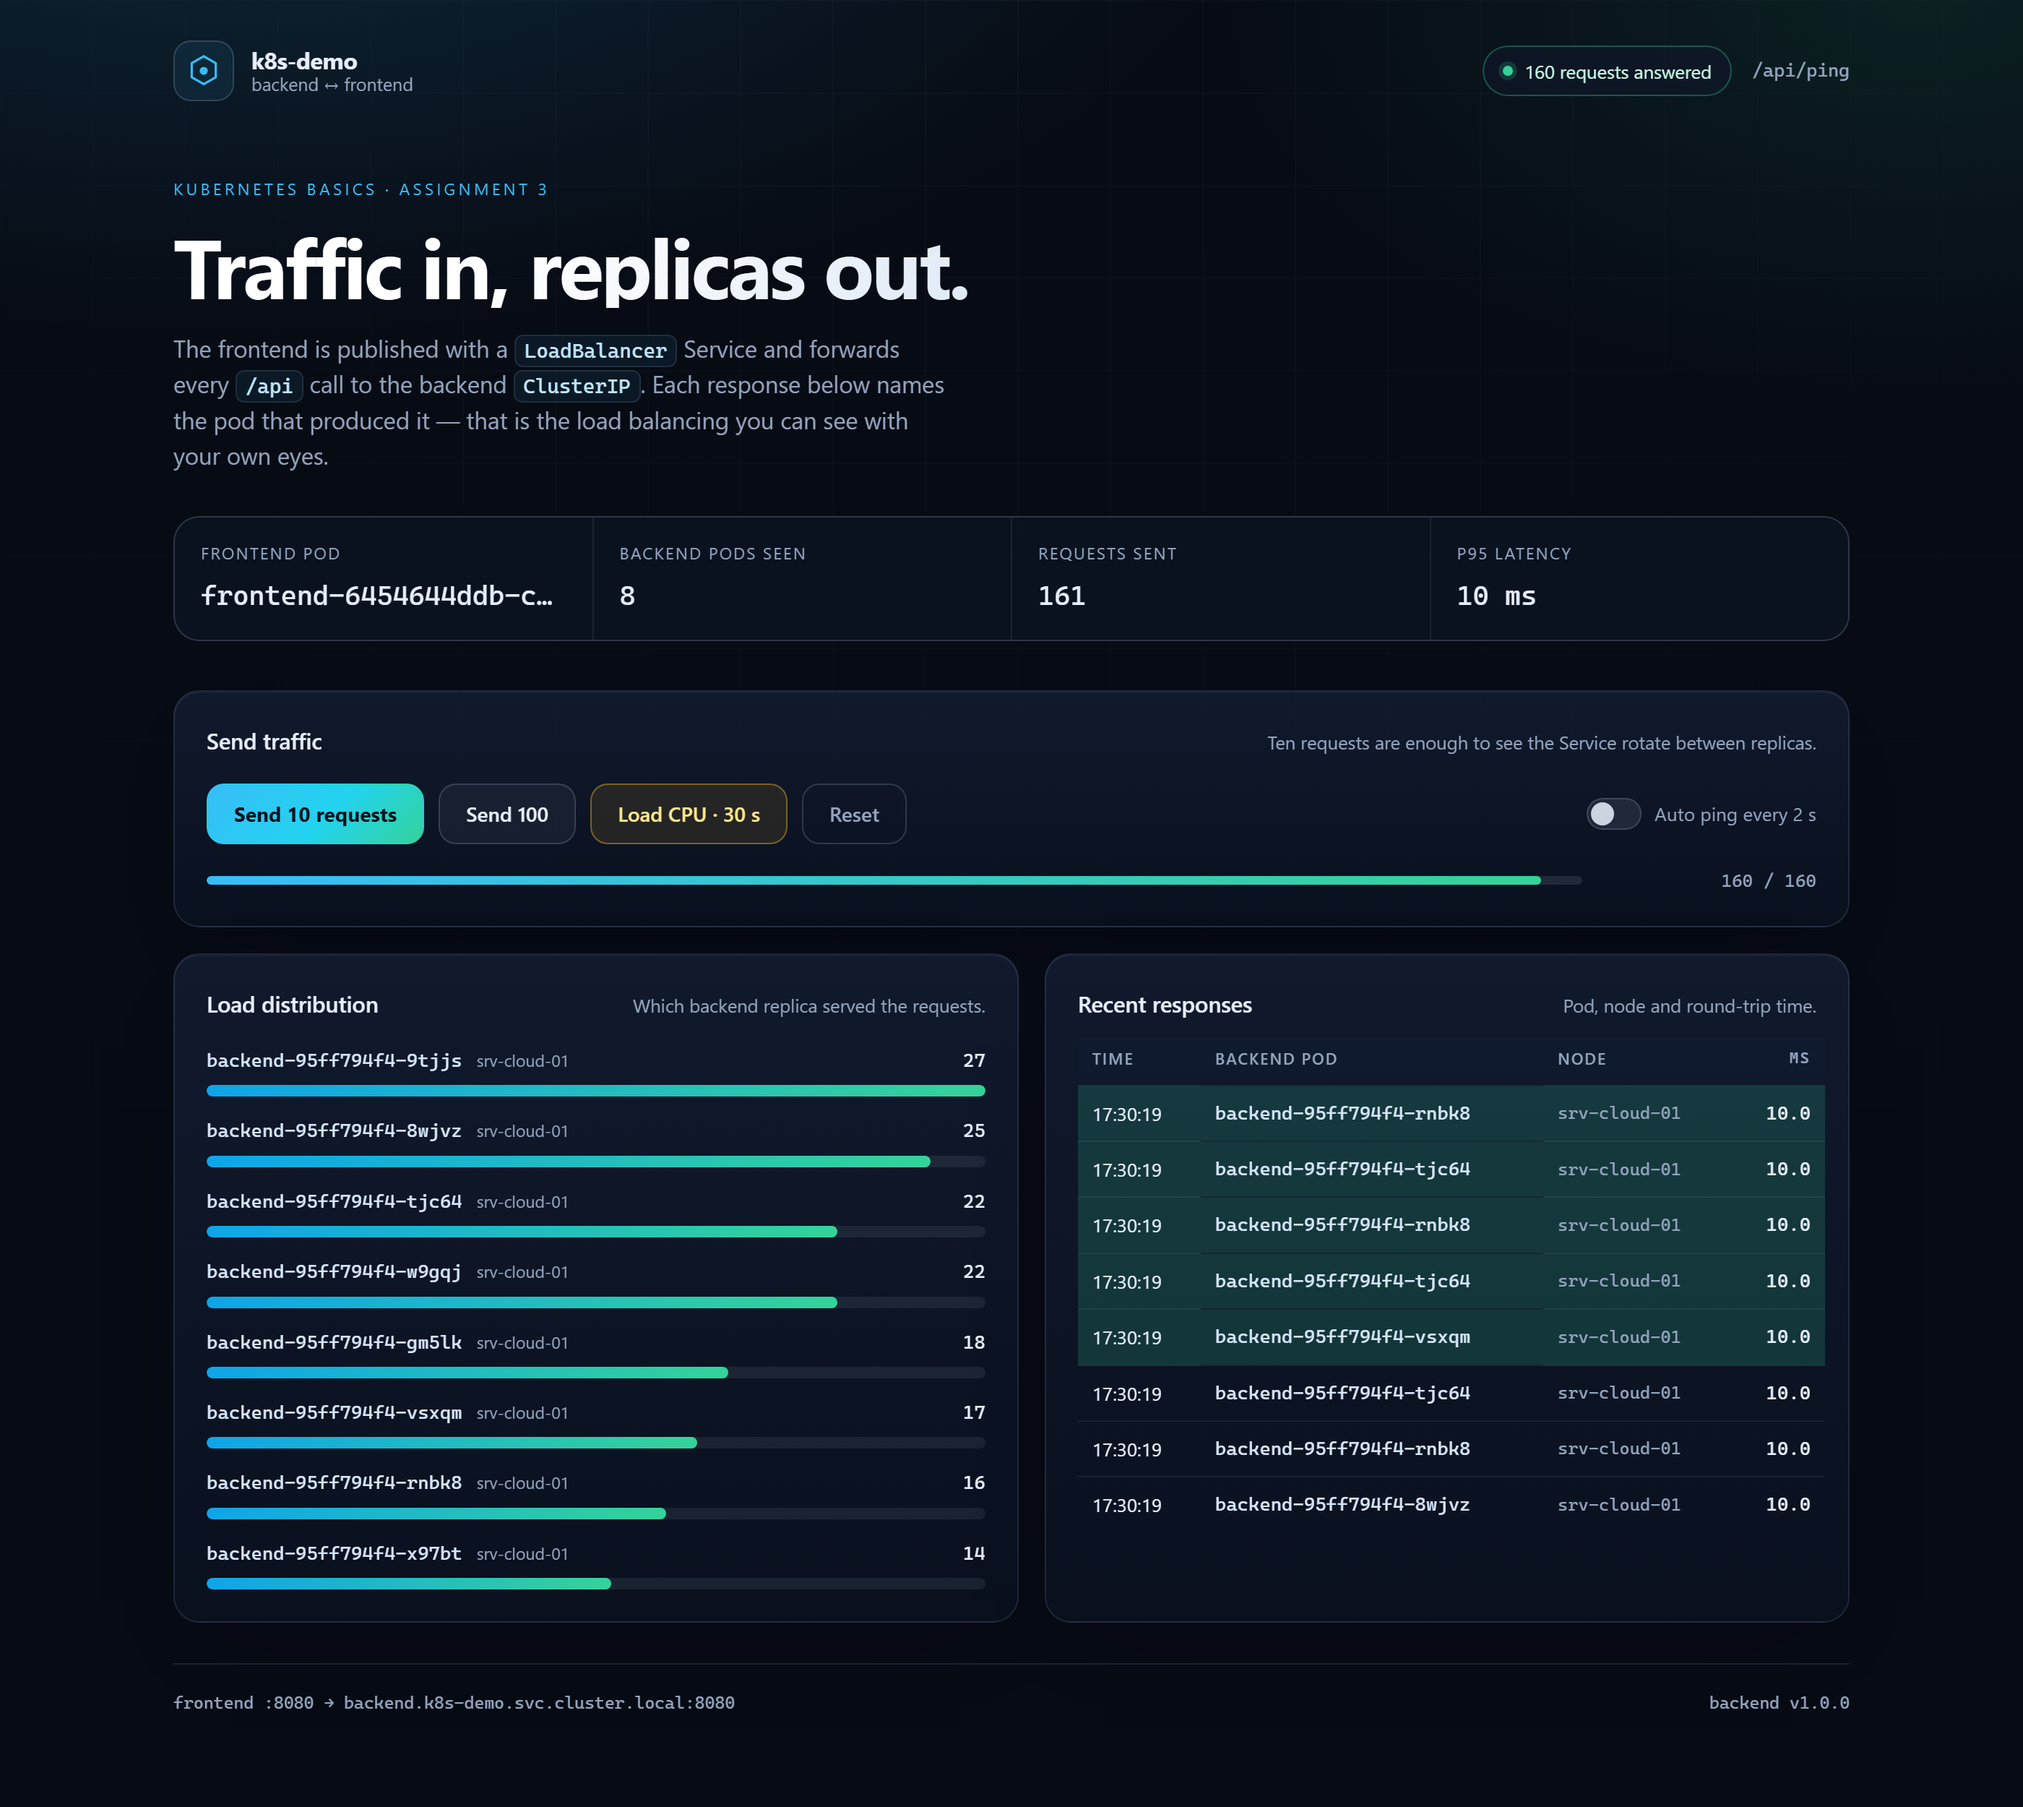
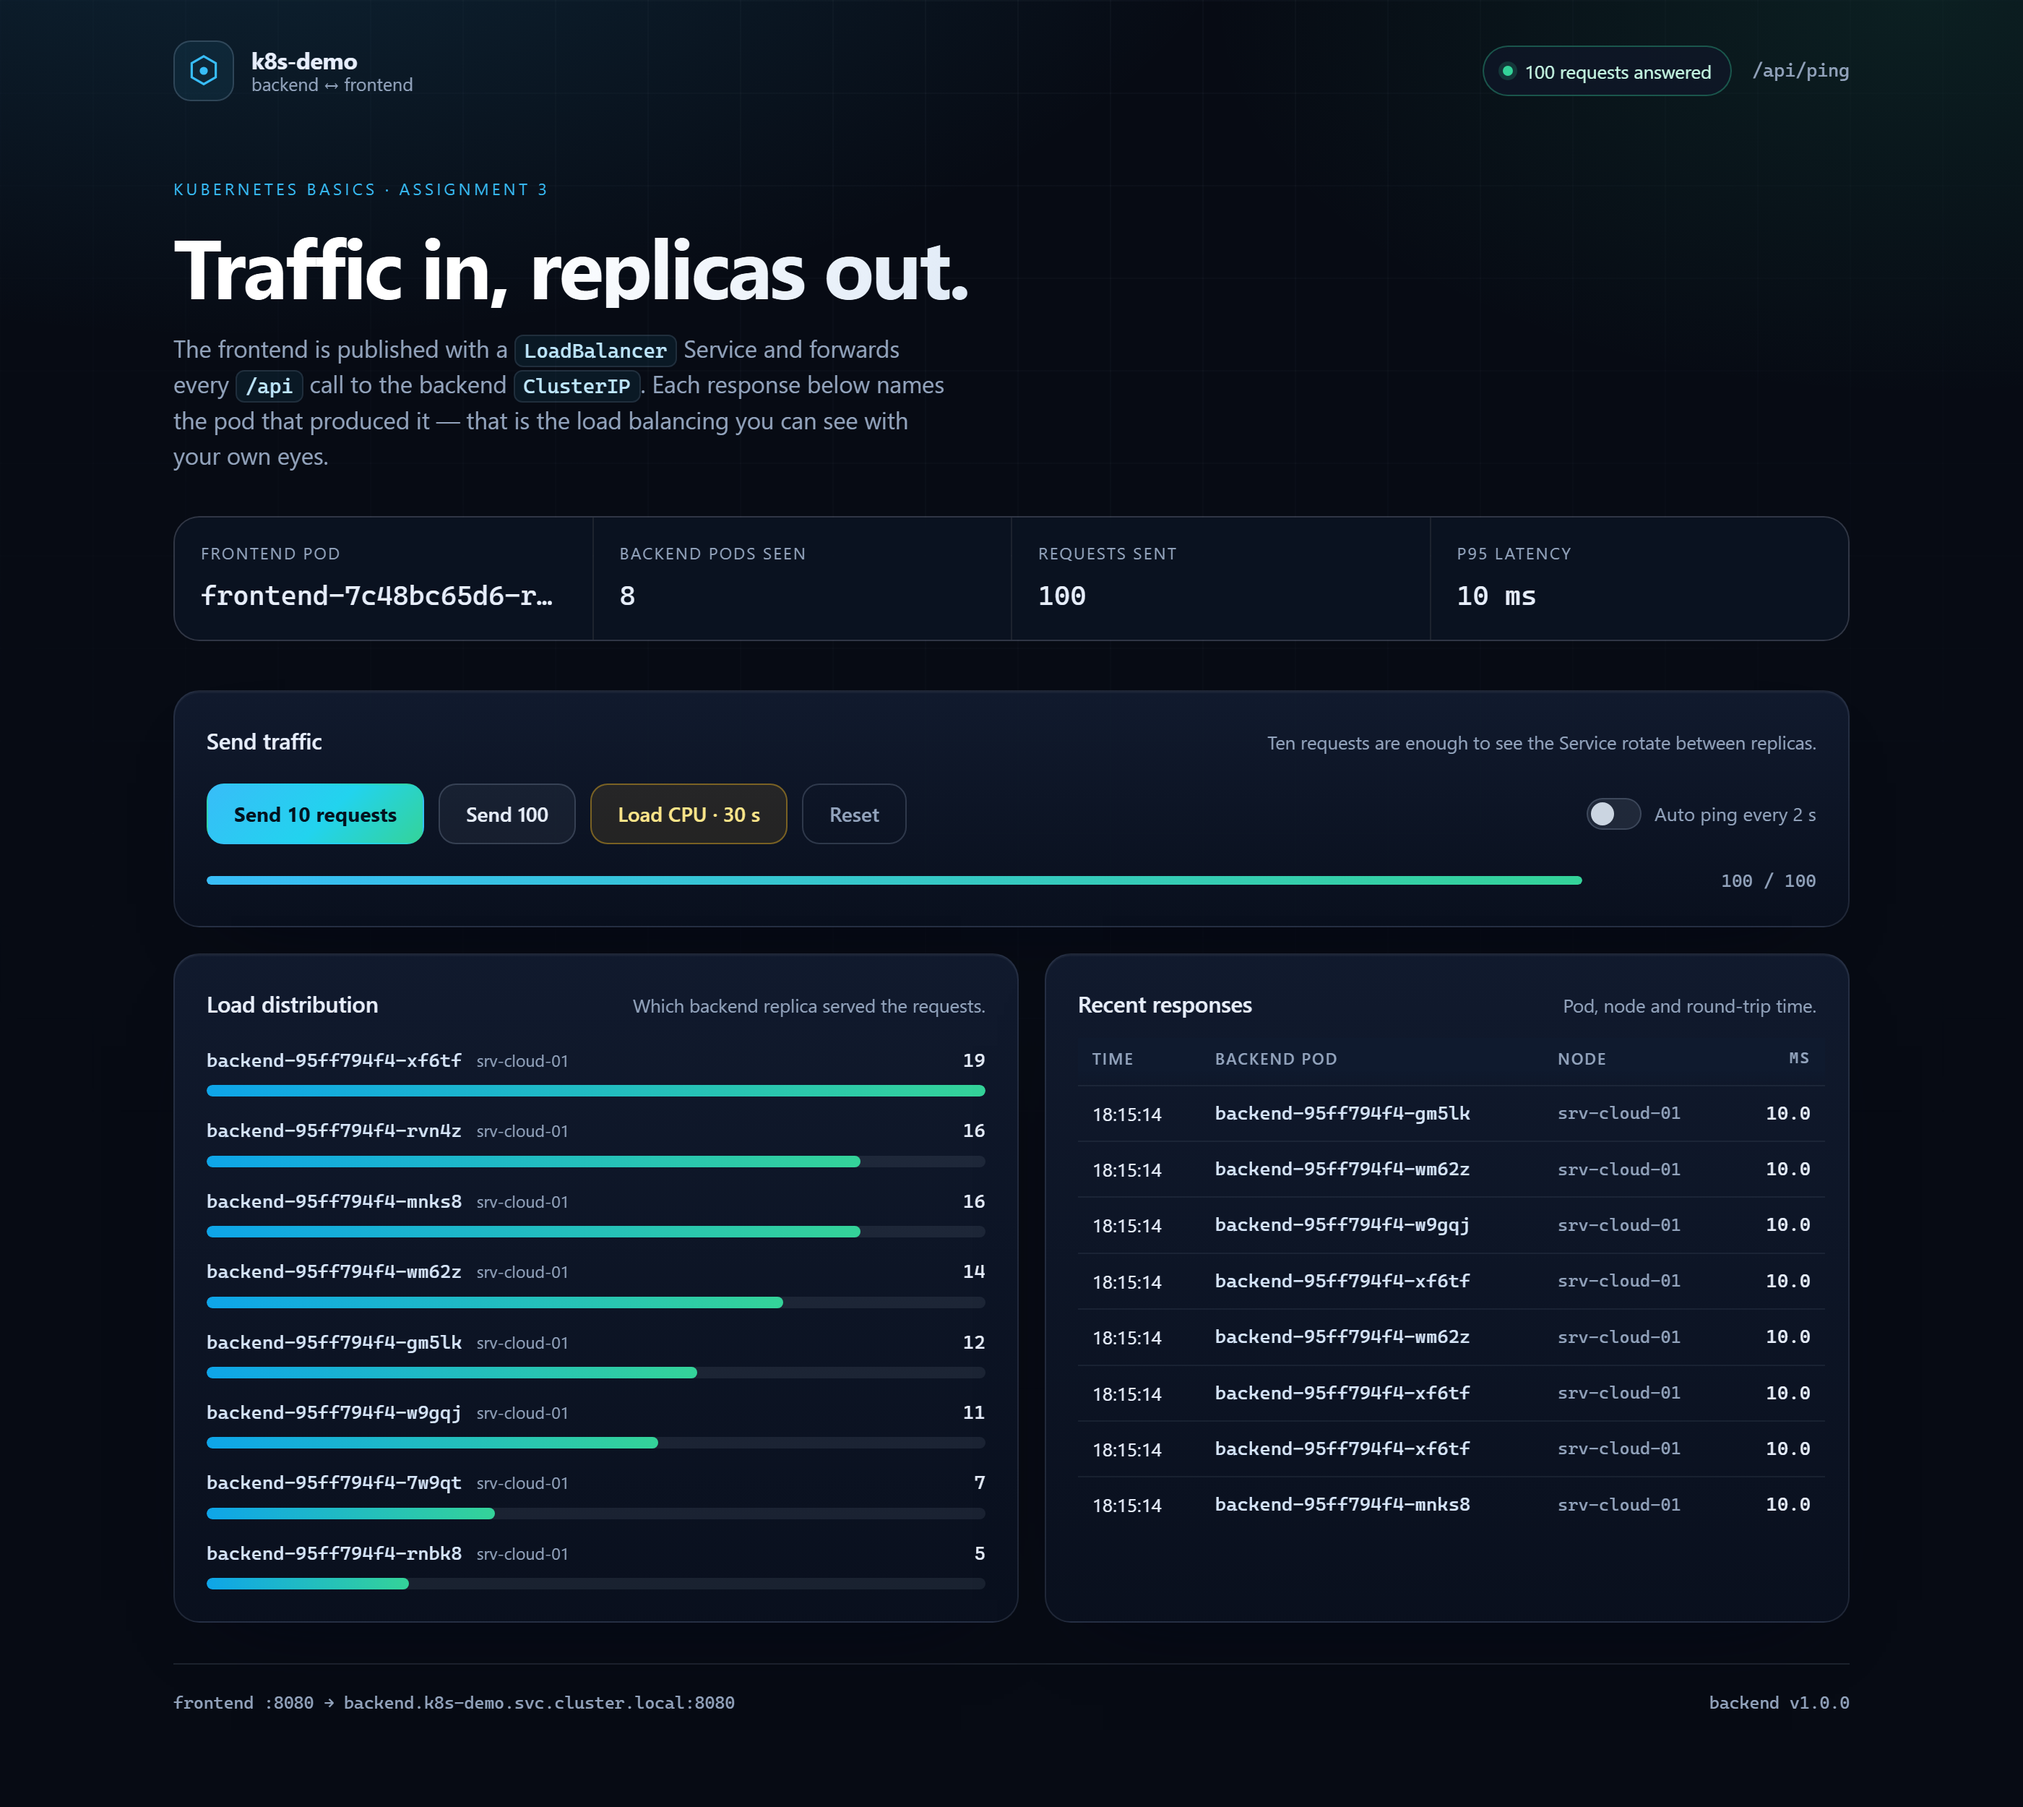
[VBek] Kubernetes basics: keep the UI counters in sync with the buttons
The page-load health check is no longer counted as traffic, the progress track disappears when a burst finishes, and the mojibake left by an earlier encoding fix is gone. Screenshots retaken with 10 and 100 requests, matching the buttons.

diff --git a/kubernetes-basics/frontend/public/app.js b/kubernetes-basics/frontend/public/app.js
@@ -115,12 +115,12 @@ function addRow(data) {
 }
 
 function renderFacts() {
-  els.frontendPod.textContent = state.frontendPod || 'РІР‚вЂќ';
+  els.frontendPod.textContent = state.frontendPod || '—';
   els.podCount.textContent = String(state.perPod.size);
   els.reqCount.textContent = state.sent.toLocaleString('en-US');
 
   const p95 = percentile(state.latencies, 95);
-  els.p95.textContent = p95 === null ? 'РІР‚вЂќ' : `${p95.toFixed(0)} ms`;
+  els.p95.textContent = p95 === null ? '—' : `${p95.toFixed(0)} ms`;
   els.buildInfo.textContent = state.version ? `backend v${state.version}` : 'backend';
 }
 
@@ -197,7 +197,7 @@ function recordFailure() {
 async function sendBurst(count) {
   if (state.busy) return;
   setBusy(true);
-  setStatus('ok', 'sending requestsРІР‚В¦');
+  setStatus('ok', 'sending requests…');
   showProgress(0, `0 / ${count}`);
 
   const batchSize = 5;
@@ -220,7 +220,7 @@ async function sendBurst(count) {
     }
 
     if (state.failed > 0) {
-      setStatus('error', `${count} sent Р’В· ${state.failed} failed`);
+      setStatus('error', `${count} sent · ${state.failed} failed`);
     } else {
       setStatus('ok', `${count} requests answered`);
     }
@@ -228,7 +228,9 @@ async function sendBurst(count) {
     setStatus('error', 'backend unreachable');
   } finally {
     setBusy(false);
-    hideProgressSoon();
+    // The pill already says how many requests were answered; an empty progress
+    // track afterwards only adds noise.
+    els.progress.hidden = true;
   }
 }
 
@@ -236,7 +238,7 @@ function stopLoad() {
   if (!state.loadController) return;
   state.loadController.abort();
   state.loadController = null;
-  els.loadBtn.textContent = 'Load CPU Р’В· 30 s';
+  els.loadBtn.textContent = 'Load CPU · 30 s';
   els.loadBtn.classList.remove('running');
 }
 
@@ -253,7 +255,7 @@ async function startLoad() {
   let requests = 0;
 
   els.loadBtn.textContent = 'Stop load';
-  setStatus('ok', 'CPU load in progressРІР‚В¦');
+  setStatus('ok', 'CPU load in progress…');
   showProgress(0, '0 requests');
 
   const worker = async () => {
@@ -273,7 +275,7 @@ async function startLoad() {
 
   const ticker = setInterval(() => {
     const left = Math.max(0, deadline - Date.now());
-    showProgress(1 - left / (LOAD_SECONDS * 1000), `${requests} CPU requests Р’В· ${Math.ceil(left / 1000)} s left`);
+    showProgress(1 - left / (LOAD_SECONDS * 1000), `${requests} CPU requests · ${Math.ceil(left / 1000)} s left`);
   }, 500);
 
   try {
@@ -282,8 +284,8 @@ async function startLoad() {
     clearInterval(ticker);
     if (state.loadController === controller) {
       state.loadController = null;
-      els.loadBtn.textContent = 'Load CPU Р’В· 30 s';
-      setStatus('ok', `CPU load finished Р’В· ${requests} requests`);
+      els.loadBtn.textContent = 'Load CPU · 30 s';
+      setStatus('ok', `CPU load finished · ${requests} requests`);
       hideProgressSoon();
     }
   }
@@ -301,21 +303,25 @@ function resetAll() {
   state.failed = 0;
   state.frontendPod = null;
 
-  els.logBody.innerHTML = '<tr class="empty"><td colspan="4">Waiting for trafficРІР‚В¦</td></tr>';
+  els.logBody.innerHTML = '<tr class="empty"><td colspan="4">Waiting for traffic…</td></tr>';
   renderFacts();
   renderBars();
   hideProgressSoon();
-  setStatus('pending', 'checking backendРІР‚В¦');
+  setStatus('pending', 'checking backend…');
   bootstrap();
 }
 
 async function bootstrap() {
   try {
     const data = await pingOnce();
-    record(data);
-    setStatus('ok', `backend ${data.version} Р’В· ${data.pod}`);
+    // The page-load health check is not counted as traffic: the counters must
+    // match what the buttons actually sent.
+    state.frontendPod = data.frontendPod || state.frontendPod;
+    state.version = data.version || state.version;
+    renderFacts();
+    setStatus('ok', `backend ${data.version} · ${data.pod}`);
   } catch (error) {
-    setStatus('error', 'backend unreachable РІР‚вЂќ check pods');
+    setStatus('error', 'backend unreachable — check pods');
   }
 }
 
@@ -338,7 +344,7 @@ els.autoToggle.addEventListener('change', () => {
       record(await pingOnce());
       setStatus('ok', 'auto ping running');
     } catch (error) {
-      setStatus('error', 'backend unreachable РІР‚вЂќ check pods');
+      setStatus('error', 'backend unreachable — check pods');
     }
   }, 2000);
 });
